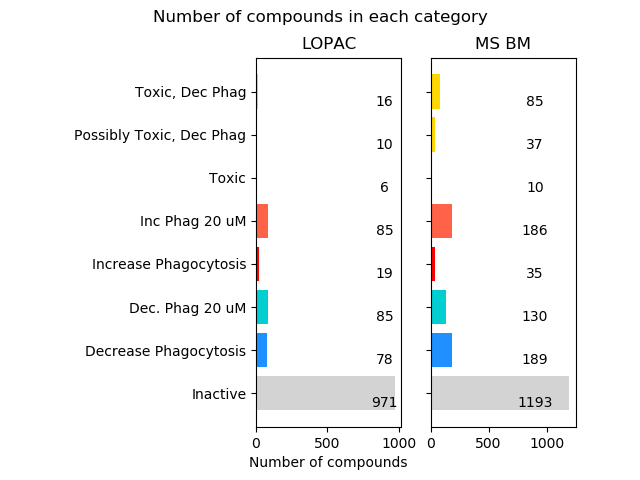
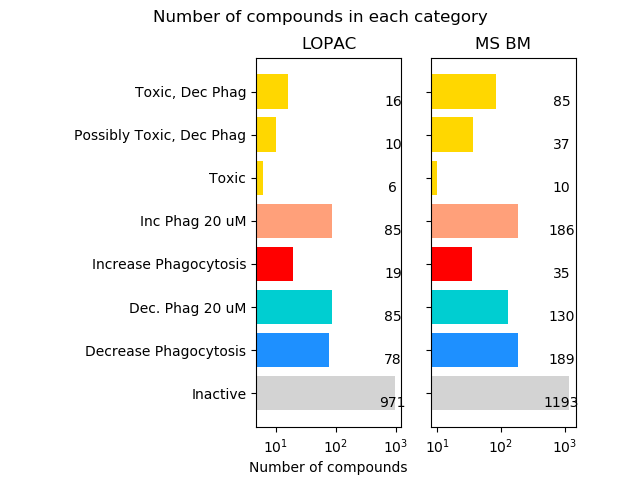
updating figure 1

diff --git a/HTS_protocols/count_screen_data.py b/HTS_protocols/count_screen_data.py
@@ -36,7 +36,7 @@ for (dname,dstatus) in msbm_cat.items():
 	ms_cnt_cats[dstatus]+=1
 
 bar_labels = ['Inactive','Decrease Phagocytosis','Dec. Phag 20 uM','Increase Phagocytosis','Inc Phag 20 uM','Toxic','Possibly Toxic, Dec Phag','Toxic, Dec Phag']
-plot_colors = {'Increase Phagocytosis':'red','Inc Phag 20 uM':'tomato','Dec. Phag 20 uM':'darkturquoise','Decrease Phagocytosis':'dodgerblue','Possibly Toxic, Dec Phag':'gold','Toxic':'gold','Toxic, Dec Phag':'gold'}
+plot_colors = {'Increase Phagocytosis':'red','Inc Phag 20 uM':'lightsalmon','Dec. Phag 20 uM':'darkturquoise','Decrease Phagocytosis':'dodgerblue','Possibly Toxic, Dec Phag':'gold','Toxic':'gold','Toxic, Dec Phag':'gold'}
 bar_colors = [plot_colors[bl] if bl in plot_colors else "lightgrey" for bl in bar_labels]
 y_pos = range(len(bar_labels))
 
@@ -51,6 +51,9 @@ for (i,(ddic,lib_nm)) in enumerate([(count_cats,"LOPAC"),(ms_cnt_cats,"MS BM")])
 	for rect, label in zip(rects,y_height):
 		height = rect.get_height()
 		ax.text(900,rect.get_y(),label,ha='center',va='bottom')
+	ax.set_xscale('log')
+	ax.set_xticks([10,100,1000]) 
+#	ax.set_xticklabels([1,4,5], fontsize=12
 	
 ax_arr[0].set_yticks(y_pos)
 ax_arr[0].set_yticklabels(bar_labels)
